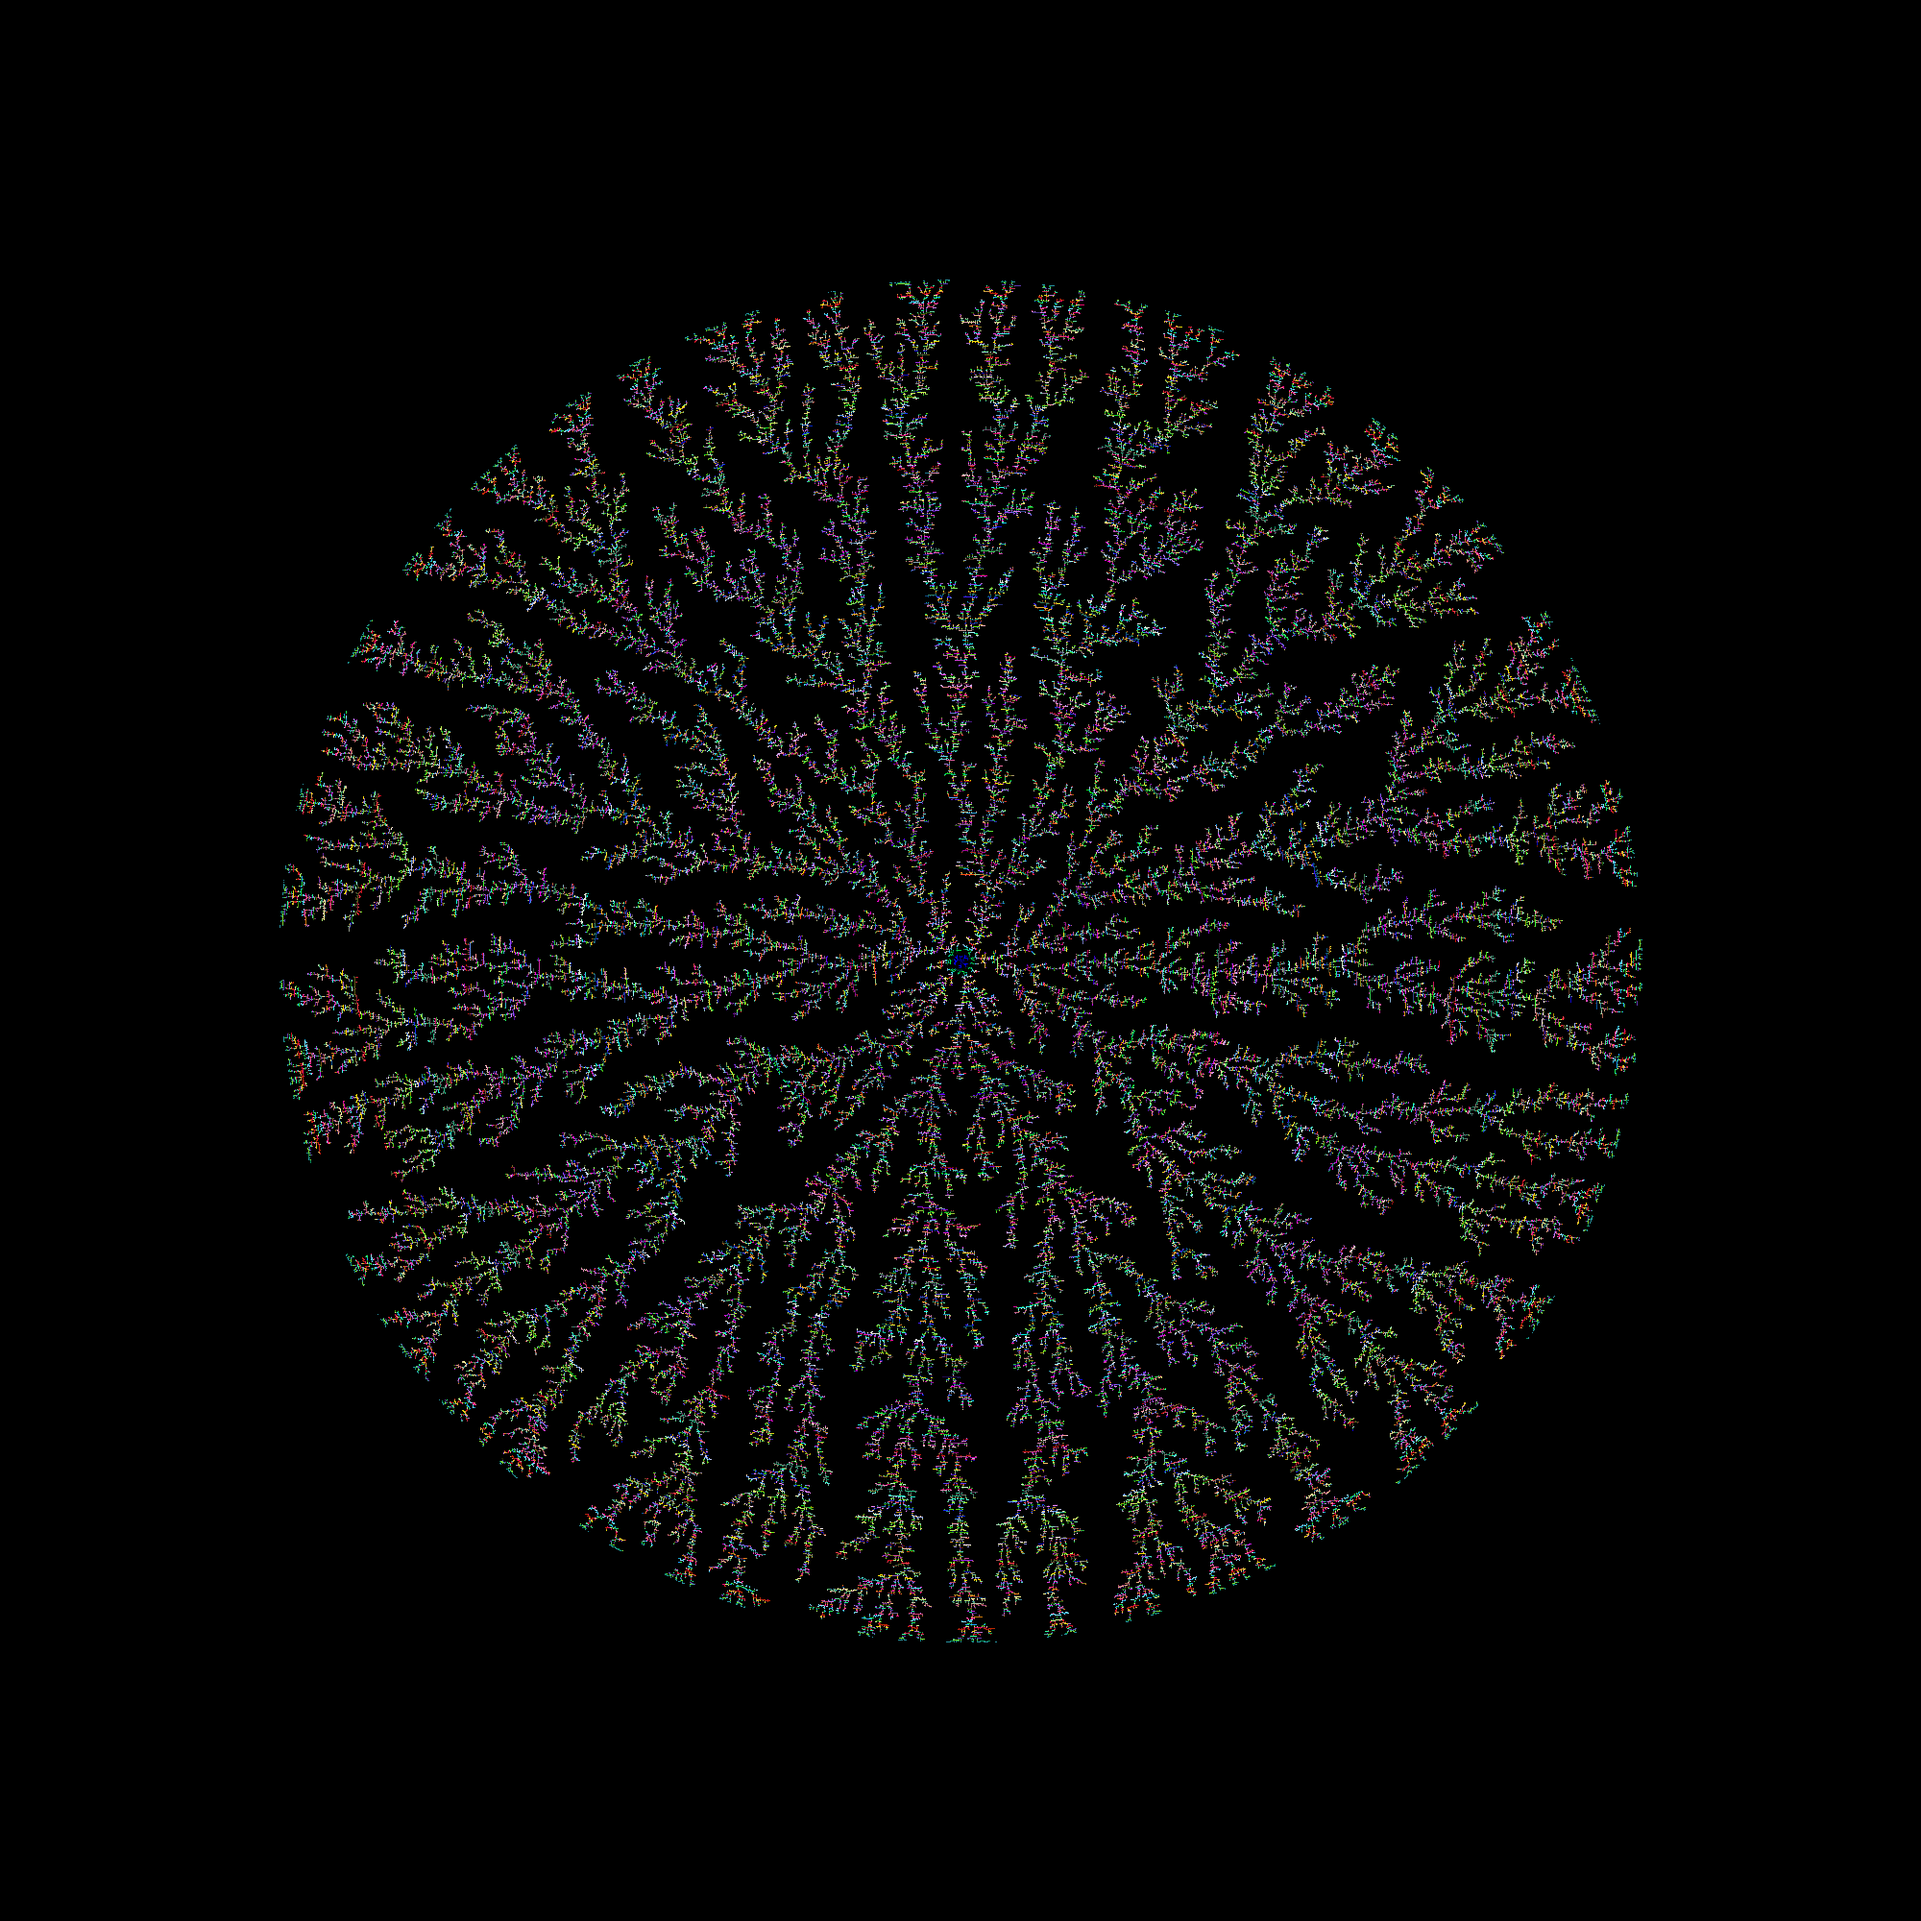
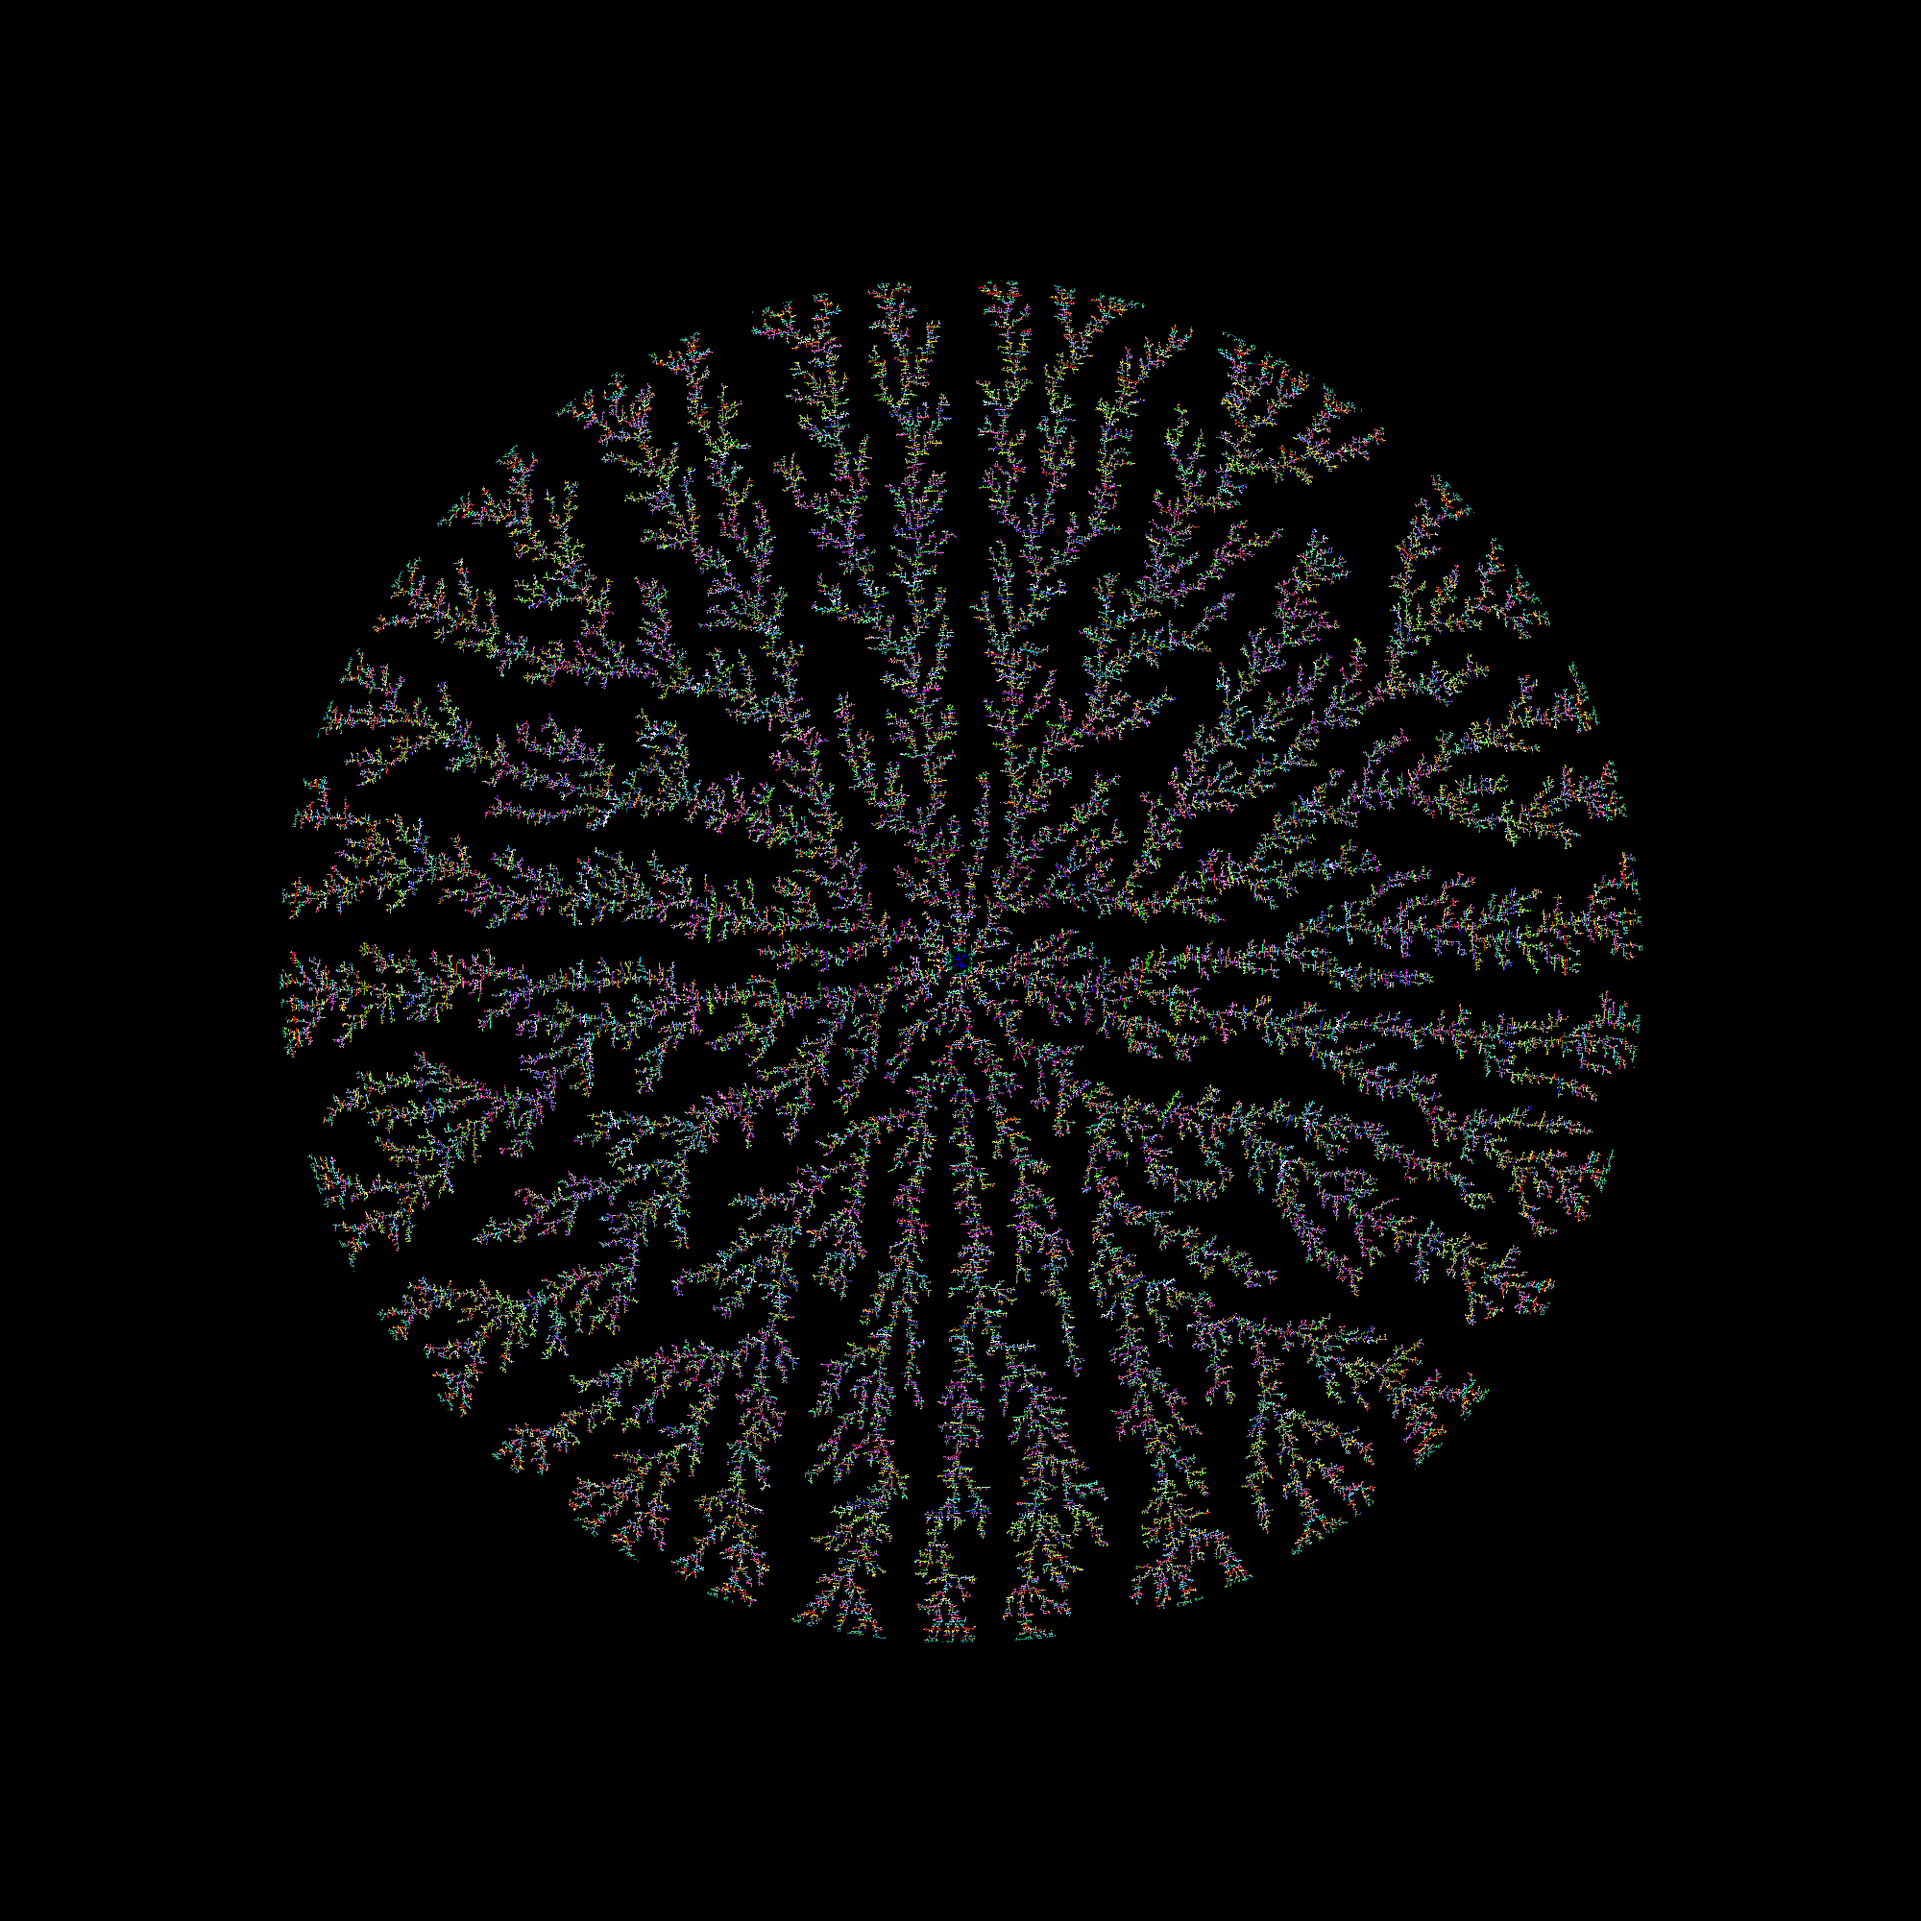
push of tower version

Changed region(s): [[0.155, 0.155, 0.868, 0.868]]

diff --git a/montecarlo-dla/src/edu/njit/math450/walker/RadialWalker.java b/montecarlo-dla/src/edu/njit/math450/walker/RadialWalker.java
@@ -127,13 +127,13 @@ public class RadialWalker extends Walker {
         int n = space.size();
         //stick to the aggregate
         if (up >= 0  && space.get(up, proj.j) > 0)
-            return true;//rand.nextBoolean();
+            return rand.nextBoolean();
         if (down < n && space.get(down, proj.j) > 0)
-            return true;//rand.nextBoolean();
+            return rand.nextBoolean();
         if (left >= 0 && space.get(proj.i, left) > 0)
-            return true;//rand.nextBoolean();
+            return rand.nextBoolean();
         if (right < n && space.get(proj.i, right) > 0)
-            return true;//rand.nextBoolean();
+            return rand.nextBoolean();
         //otherwise the walker is still wandering in space
         return false;
     }
